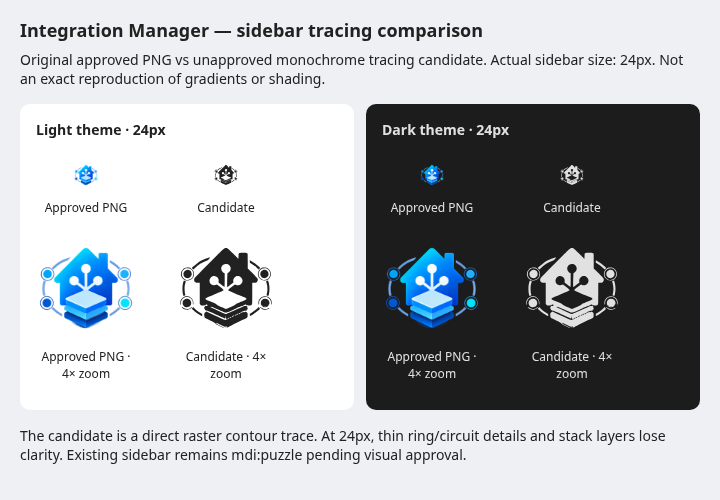
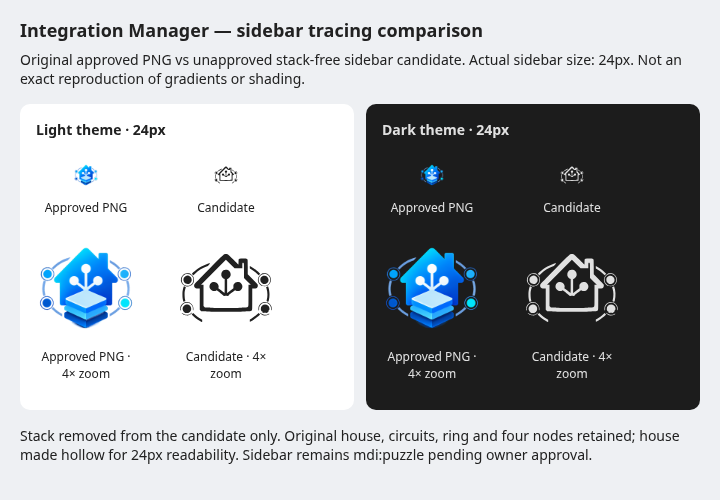
Remove foreground stack from unapproved sidebar preview

diff --git a/tests/test_packaging_workflows.py b/tests/test_packaging_workflows.py
@@ -1,6 +1,7 @@
 import base64
 import hashlib
 import json
+import re
 import subprocess
 import zipfile
 from unittest.mock import Mock
@@ -301,12 +302,49 @@ def test_sidebar_trace_is_a_labeled_vector_candidate_outside_the_installable_pac
         f"{namespace}title",
         f"{namespace}desc",
         f"{namespace}path",
+        f"{namespace}path",
+        f"{namespace}path",
     ]
     assert "Unapproved" in svg[0].text
     assert hashlib.sha256((ROOT / "approved-icon.png").read_bytes()).hexdigest() in svg[1].text
-    assert svg.attrib["viewBox"] == "0 0 512 512"
-    assert svg[2].attrib["fill"] == "currentColor"
-    assert svg[2].attrib["d"].startswith("M") and "C" in svg[2].attrib["d"]
-    assert "data:" not in svg[2].attrib["d"]
+    assert svg.attrib["viewBox"] == "0 -31 512 512"
+    assert [path.attrib["id"] for path in svg[2:]] == ["house", "circuit", "ring-nodes"]
+    for path in svg[2:]:
+        assert path.attrib["fill"] == "currentColor"
+        assert path.attrib["d"].startswith("M") and "C" in path.attrib["d"]
+        assert "data:" not in path.attrib["d"]
     with zipfile.ZipFile(build(tmp_path)) as archive:
         assert not any("candidate" in name or "previews" in name for name in archive.namelist())
+
+
+def test_stack_free_candidate_preserves_ring_nodes_and_a_hollow_house():
+    from defusedxml.ElementTree import fromstring
+
+    svg = fromstring((ROOT / "previews/0.1.6-sidebar-icon-candidate.svg").read_bytes())
+    house, circuit, ring = svg[2:]
+    # This fingerprint is the prior candidate's ring/four-node geometry,
+    # excluding its central house/stack paths. That artwork is preserved.
+    assert hashlib.sha256(ring.attrib["d"].encode()).hexdigest() == (
[1 lines of base64/hex data omitted]
+    )
+
+    def coordinates(data):
+        numbers = [float(value) for value in re.findall(r"-?\d+(?:\.\d+)?", data)]
+        return list(zip(numbers[::2], numbers[1::2], strict=True))
+
+    contours = [coordinates(part) for part in re.findall(r"M[^M]+", house.attrib["d"])]
+    assert len(contours) == 2  # Outer perimeter and a substantial hollow interior.
+    # Control polygons preserve the contour winding and provide a conservative
+    # area check: a tiny hole or same-direction contour must not create a blob.
+    areas = [
+        sum(x1 * y2 - x2 * y1 for (x1, y1), (x2, y2) in zip(points, points[1:] + points[:1])) / 2
+        for points in contours
+    ]
+    assert areas[0] * areas[1] < 0
+    assert abs(areas[1]) > abs(areas[0]) * 0.6
+    assert max(y for points in contours for _, y in points) <= 351
+    assert min(y for points in contours for _, y in points) < 45  # Original roof peak.
+    # Only the original circuit remains above its junction; no foreground cap,
+    # layered slabs, highlights or lower shadow can survive under these bounds.
+    assert max(y for _, y in coordinates(circuit.attrib["d"])) <= 269
+    assert all(max(y for _, y in coordinates(path.attrib["d"])) < 410 for path in svg[2:])
